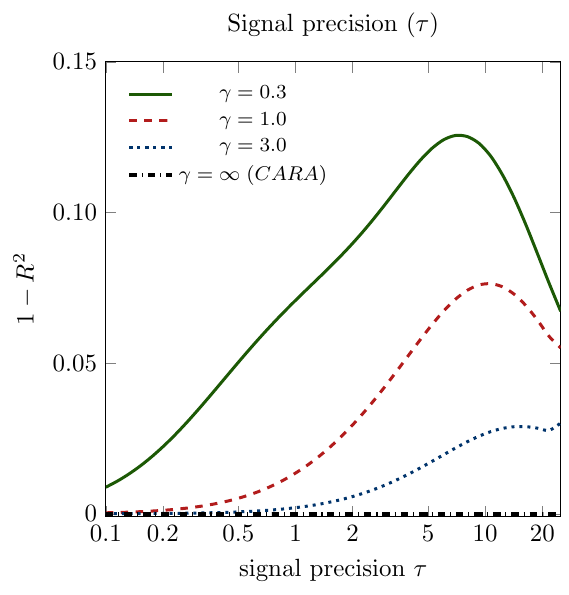
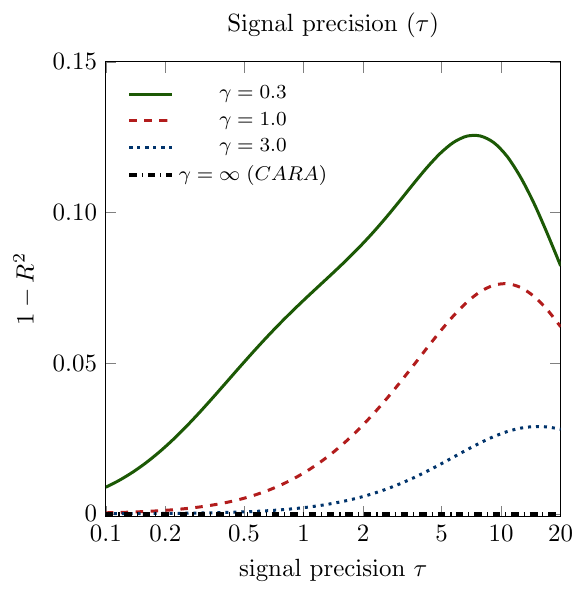
τ panel: xmax = 20

diff --git a/figures/fig_knife_edge.tex b/figures/fig_knife_edge.tex
@@ -9,7 +9,7 @@
 \begin{axis}[
     width=8cm, height=8cm,
     xmode=log,
-    xmin=0.1, xmax=25,
+    xmin=0.1, xmax=20,
     ymin=-0.001, ymax=0.15,
     xtick={0.1,0.2,0.5,1,2,5,10,20},
     xticklabels={0.1,0.2,0.5,1,2,5,10,20},
@@ -22,13 +22,13 @@
     legend style={fill=none, draw=none, font=\footnotesize},
     smooth,
 ]
-\addplot[green, solid, very thick] coordinates {(0.1,0.00881835) (0.115209,0.0108608) (0.132731,0.0132515) (0.152917,0.016008) (0.176174,0.0191353) (0.202968,0.022624) (0.233837,0.0264477) (0.269401,0.0305632) (0.310374,0.034912) (0.357578,0.039423) (0.411961,0.0440186) (0.474616,0.0486203) (0.546799,0.0531568) (0.629961,0.0575705) (0.72577,0.0618236) (0.836151,0.065903) (0.963319,0.0698218) (1.10983,0.0736198) (1.27862,0.0773606) (1.47308,0.0811257) (1.69712,0.0850055) (1.95523,0.0890859) (2.2526,0.0934318) (2.59519,0.0980676) (2.98989,0.102954) (3.44462,0.107974) (3.9685,0.112924) (4.57206,0.117523) (5.26742,0.121422) (6.06853,0.124238) (6.99148,0.125587) (8.0548,0.12521) (9.27984,0.122976) (10.6912,0.118739) (12.3172,0.11261) (14.1905,0.105001) (16.3487,0.096115) (18.8351,0.0864544) (21.6997,0.0766292) (25,0.067227)};
+\addplot[green, solid, very thick] coordinates {(0.1,0.00881835) (0.116863,0.0110854) (0.13657,0.0137769) (0.1596,0.0169138) (0.186513,0.0204982) (0.217965,0.0245097) (0.254721,0.0289029) (0.297674,0.0336085) (0.347871,0.0385371) (0.406533,0.0435866) (0.475087,0.0486525) (0.555202,0.053639) (0.648826,0.058471) (0.758238,0.0631031) (0.8861,0.0675267) (1.03552,0.0717724) (1.21015,0.0759082) (1.41421,0.0800334) (1.65269,0.0842657) (1.93139,0.0887224) (2.25708,0.0934949) (2.63769,0.098617) (3.08249,0.10403) (3.60229,0.109558) (4.20975,0.114903) (4.91965,0.119652) (5.74925,0.123316) (6.71875,0.125375) (7.85174,0.125412) (9.17579,0.123225) (10.7231,0.118629) (12.5314,0.111755) (14.6445,0.103129) (17.114,0.0930356) (20,0.0822912)};
 \addlegendentry{$\gamma = 0.3$};
-\addplot[red, dashed, very thick] coordinates {(0.1,0.000322861) (0.115209,0.000420125) (0.132731,0.000545218) (0.152917,0.000705429) (0.176174,0.000909658) (0.202968,0.00116866) (0.233837,0.00149525) (0.269401,0.0019045) (0.310374,0.00241388) (0.357578,0.00304325) (0.411961,0.00381477) (0.474616,0.00475269) (0.546799,0.00588289) (0.629961,0.00723235) (0.72577,0.00882835) (0.836151,0.0106977) (0.963319,0.0128656) (1.10983,0.015355) (1.27862,0.0181851) (1.47308,0.0213703) (1.69712,0.0249188) (1.95523,0.0288305) (2.2526,0.0330943) (2.59519,0.0376844) (2.98989,0.0425554) (3.44462,0.0476364) (3.9685,0.0528247) (4.57206,0.0579805) (5.26742,0.062924) (6.06853,0.0674385) (6.99148,0.0712802) (8.0548,0.0741971) (9.27984,0.0759566) (10.6912,0.0763775) (12.3172,0.075362) (14.1905,0.0729191) (16.3487,0.0691736) (18.8351,0.06436) (21.6997,0.0589348) (25,0.0550866)};
+\addplot[red, dashed, very thick] coordinates {(0.1,0.000322861) (0.116863,0.000431353) (0.13657,0.000574399) (0.1596,0.000762033) (0.186513,0.00100672) (0.217965,0.00132376) (0.254721,0.00173158) (0.297674,0.00225203) (0.347871,0.0029105) (0.406533,0.00373582) (0.475087,0.00475992) (0.555202,0.00601724) (0.648826,0.00754375) (0.758238,0.0093758) (0.8861,0.0115487) (1.03552,0.0140951) (1.21015,0.0170433) (1.41421,0.0204157) (1.65269,0.0242261) (1.93139,0.0284773) (2.25708,0.0331565) (2.63769,0.0382301) (3.08249,0.0436353) (3.60229,0.0492709) (4.20975,0.0549872) (4.91965,0.0605783) (5.74925,0.0657808) (6.71875,0.0702831) (7.85174,0.0737503) (9.17579,0.0758636) (10.7231,0.0763711) (12.5314,0.0751394) (14.6445,0.0721919) (17.114,0.0677206) (20,0.0620831)};
 \addlegendentry{$\gamma = 1.0$};
-\addplot[blue, dotted, very thick] coordinates {(0.1,3.03546e-05) (0.115209,3.99723e-05) (0.132731,5.25769e-05) (0.152917,6.90653e-05) (0.176174,9.05897e-05) (0.202968,0.000118622) (0.233837,0.000155033) (0.269401,0.000202185) (0.310374,0.000263044) (0.357578,0.000341301) (0.411961,0.000441511) (0.474616,0.000569245) (0.546799,0.00073124) (0.629961,0.000935549) (0.72577,0.00119167) (0.836151,0.00151064) (0.963319,0.00190508) (1.10983,0.0023891) (1.27862,0.00297817) (1.47308,0.00368876) (1.69712,0.00453774) (1.95523,0.00554158) (2.2526,0.00671515) (2.59519,0.00807014) (2.98989,0.00961306) (3.44462,0.0113427) (3.9685,0.0132475) (4.57206,0.0153022) (5.26742,0.0174656) (6.06853,0.019678) (6.99148,0.0218616) (8.0548,0.0239222) (9.27984,0.0257552) (10.6912,0.0272546) (12.3172,0.0283244) (14.1905,0.0288926) (16.3487,0.0289216) (18.8351,0.0284236) (21.6997,0.0276667) (25,0.0301321)};
+\addplot[blue, dotted, very thick] coordinates {(0.1,3.03546e-05) (0.116863,4.10932e-05) (0.13657,5.55523e-05) (0.1596,7.49766e-05) (0.186513,0.000101003) (0.217965,0.000135773) (0.254721,0.000182064) (0.297674,0.000243457) (0.347871,0.000324525) (0.406533,0.000431049) (0.475087,0.000570254) (0.555202,0.000751058) (0.648826,0.000984312) (0.758238,0.001283) (0.8861,0.0016624) (1.03552,0.00214004) (1.21015,0.00273564) (1.41421,0.00347061) (1.65269,0.00436736) (1.93139,0.00544806) (2.25708,0.00673289) (2.63769,0.00823757) (3.08249,0.00997013) (3.60229,0.0119269) (4.20975,0.0140878) (4.91965,0.0164116) (5.74925,0.0188322) (6.71875,0.021256) (7.85174,0.0235642) (9.17579,0.0256201) (10.7231,0.0272818) (12.5314,0.0284216) (14.6445,0.0289462) (17.114,0.0288156) (20,0.0280829)};
 \addlegendentry{$\gamma = 3.0$};
-\addplot[black, dash dot, ultra thick] coordinates {(0.1,0) (0.115209,0) (0.132731,0) (0.152917,0) (0.176174,0) (0.202968,0) (0.233837,0) (0.269401,0) (0.310374,0) (0.357578,0) (0.411961,0) (0.474616,0) (0.546799,0) (0.629961,0) (0.72577,0) (0.836151,0) (0.963319,0) (1.10983,0) (1.27862,0) (1.47308,0) (1.69712,0) (1.95523,0) (2.2526,0) (2.59519,0) (2.98989,0) (3.44462,0) (3.9685,0) (4.57206,0) (5.26742,0) (6.06853,0) (6.99148,0) (8.0548,0) (9.27984,0) (10.6912,0) (12.3172,0) (14.1905,0) (16.3487,0) (18.8351,0) (21.6997,0) (25,0)};
+\addplot[black, dash dot, ultra thick] coordinates {(0.1,0) (0.116863,0) (0.13657,0) (0.1596,0) (0.186513,0) (0.217965,0) (0.254721,0) (0.297674,0) (0.347871,0) (0.406533,0) (0.475087,0) (0.555202,0) (0.648826,0) (0.758238,0) (0.8861,0) (1.03552,0) (1.21015,0) (1.41421,0) (1.65269,0) (1.93139,0) (2.25708,0) (2.63769,0) (3.08249,0) (3.60229,0) (4.20975,0) (4.91965,0) (5.74925,0) (6.71875,0) (7.85174,0) (9.17579,0) (10.7231,0) (12.5314,0) (14.6445,0) (17.114,0) (20,0)};
 \addlegendentry{$\gamma = \infty\;(\text{CARA})$};
 \end{axis}
 \end{tikzpicture}
